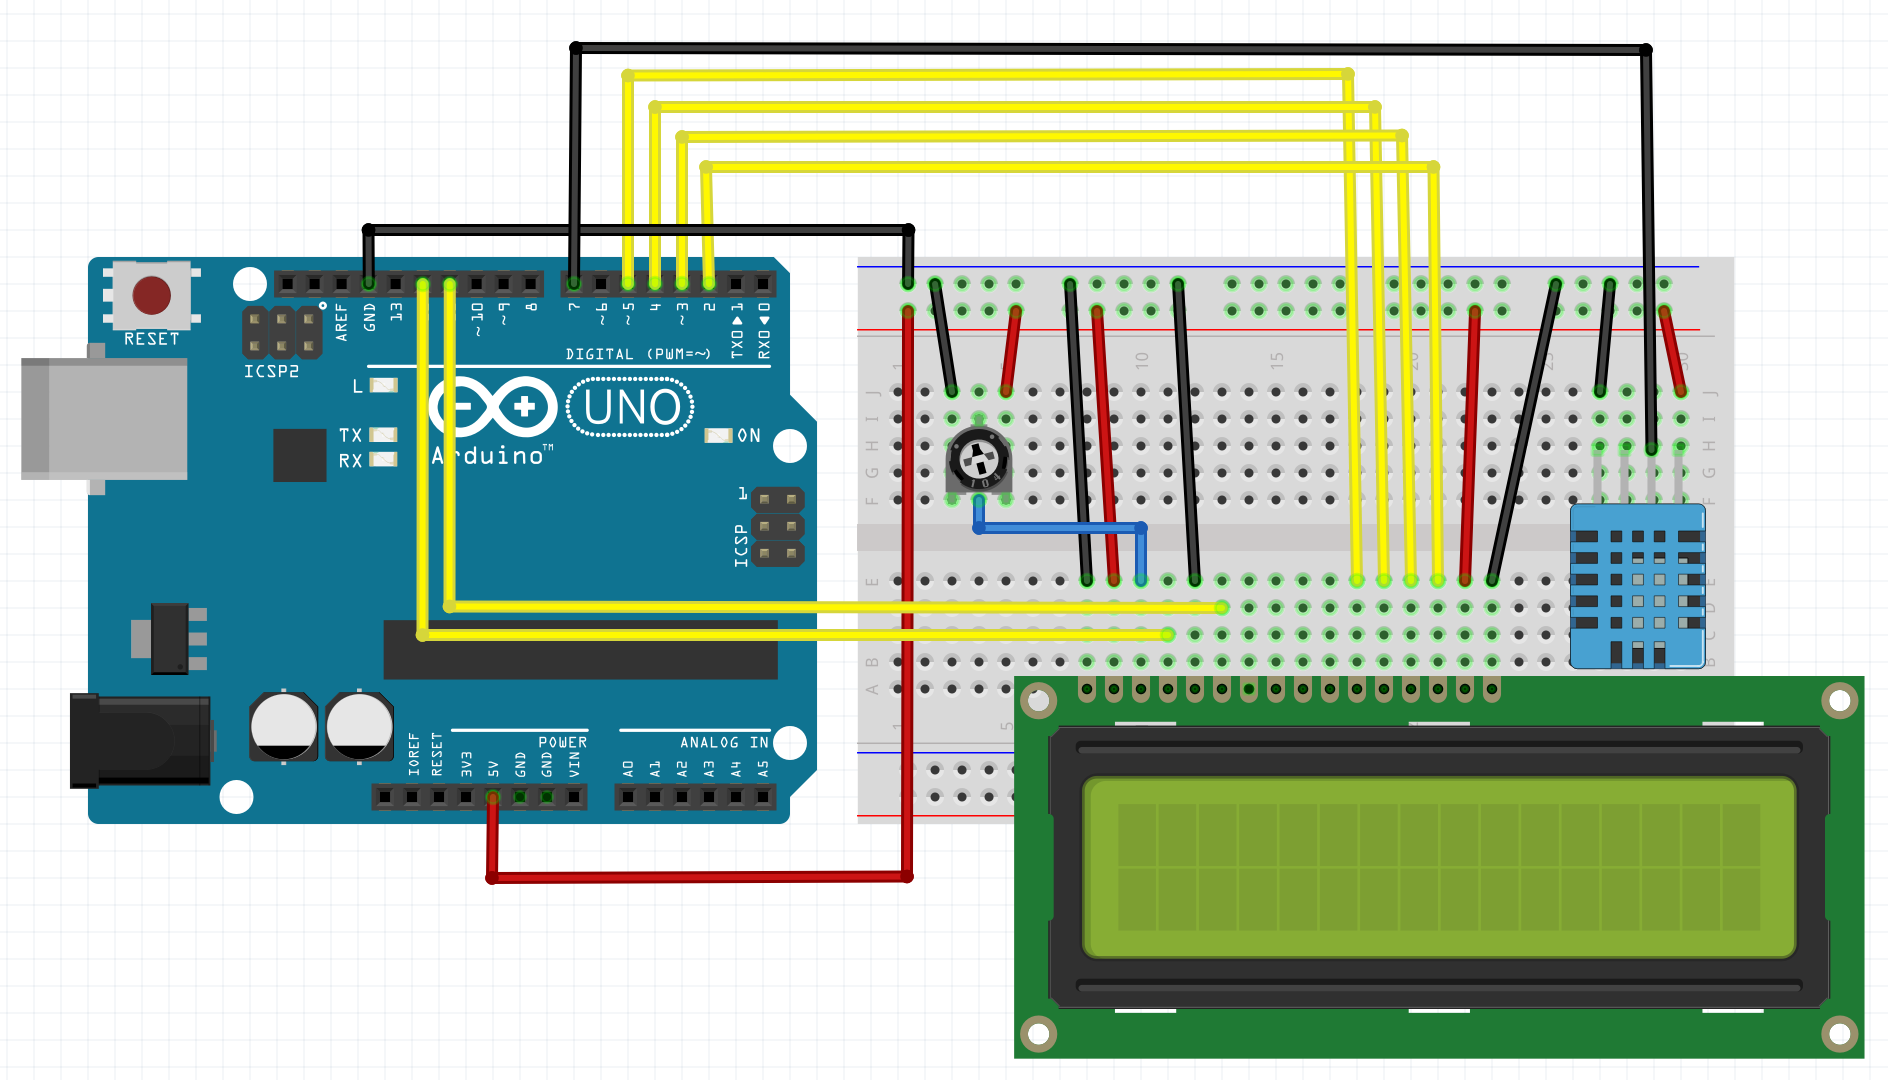
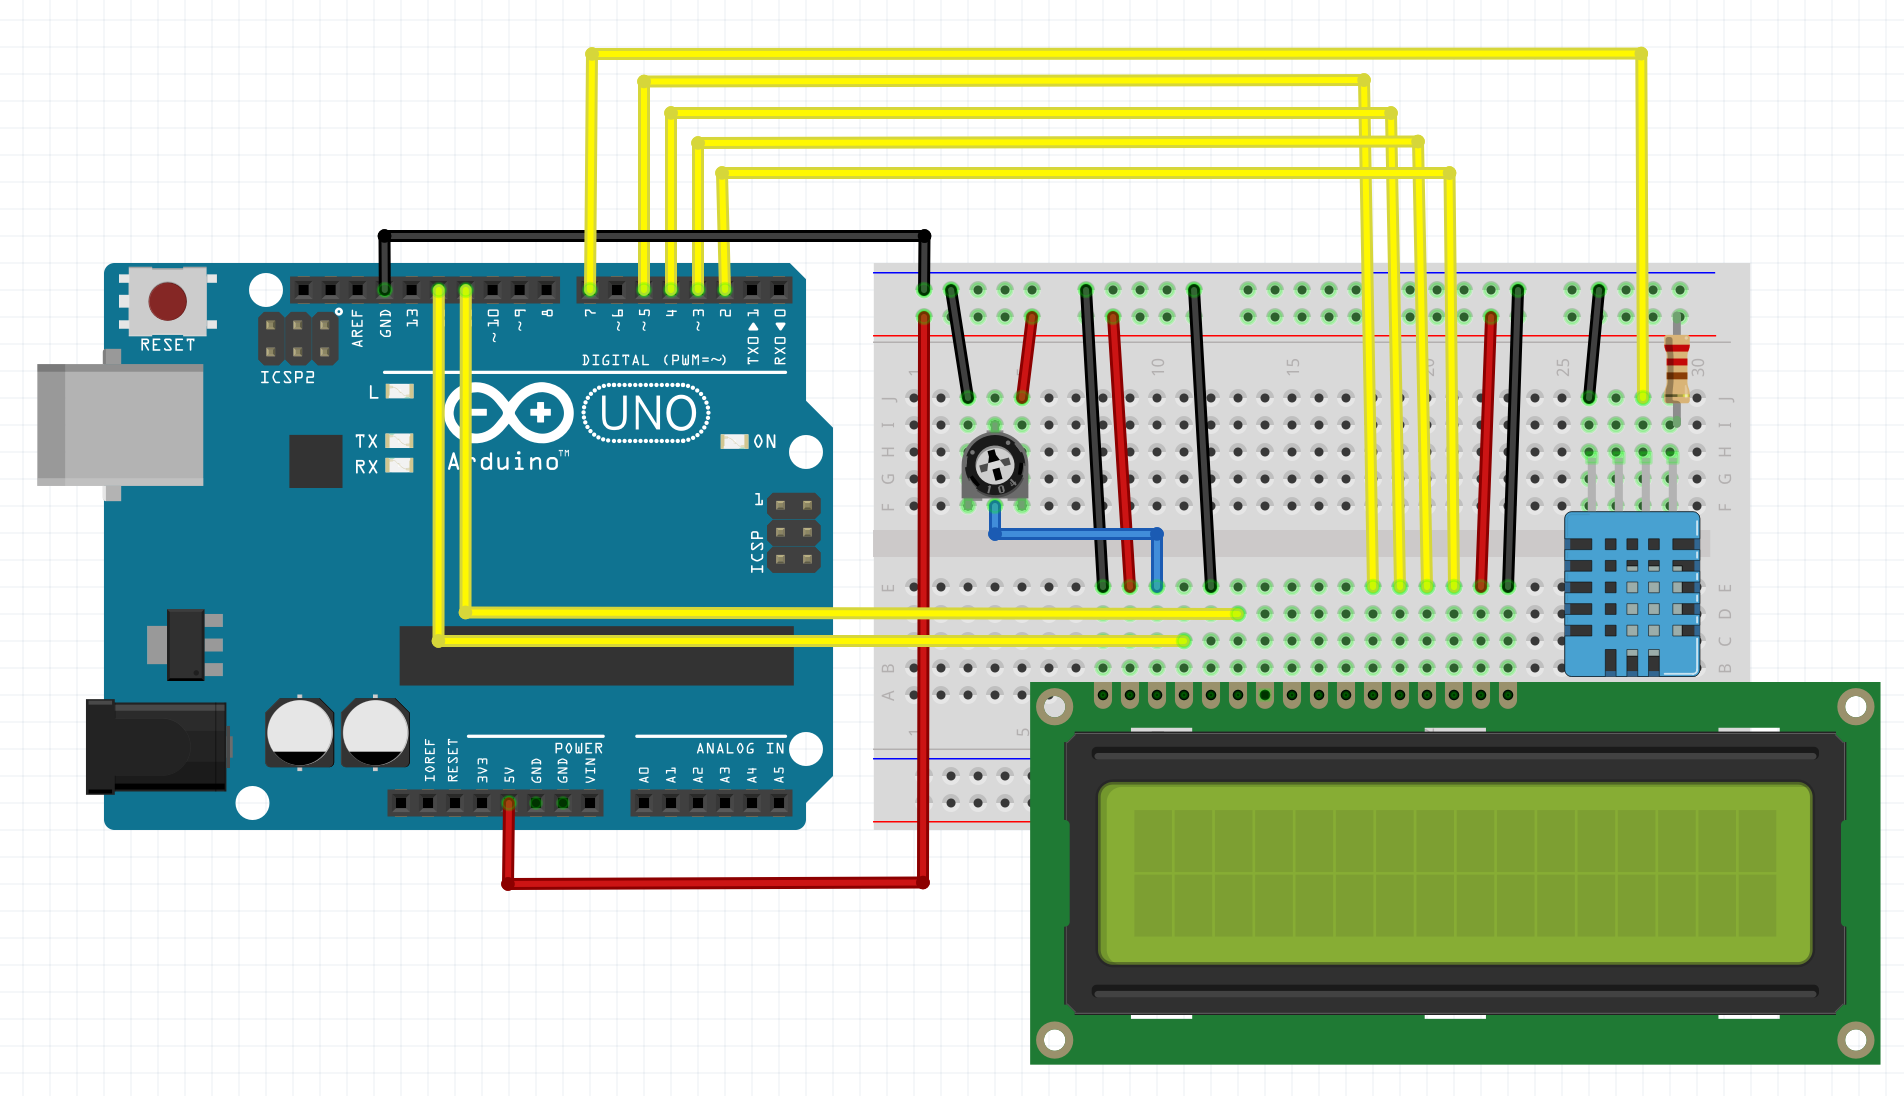
Add Fritzing sketch

Changed region(s): [[0.0, 0.0306, 1.0, 1.0]]

diff --git a/README.md b/README.md
@@ -7,15 +7,17 @@ Simple project to monitor the temperature & humidity of the environment, using a
 ## Required Parts
 
 - Arduino Uno R3
-- DHT11 temperature & humidity sensor
+- DHT11 temperature & humidity sensor (if not using module, an additional 2 k&#8486; resistor is required)
 - LCD1602 16x2 Liquid Crystal Display module
-- 10 kOhm Potentiometer
+- 10 k&#8486; Potentiometer
 
 ## Wiring Schematic
 
 ## PoC
 
 ![PoC Wiring Diagram](./poc-wiring-diagram.png)
+
+> Note: leave out the 2 k&#8486; resistor on DHT11 pin 1 if using the DHT11 module.
 
 ## Schematic
 
